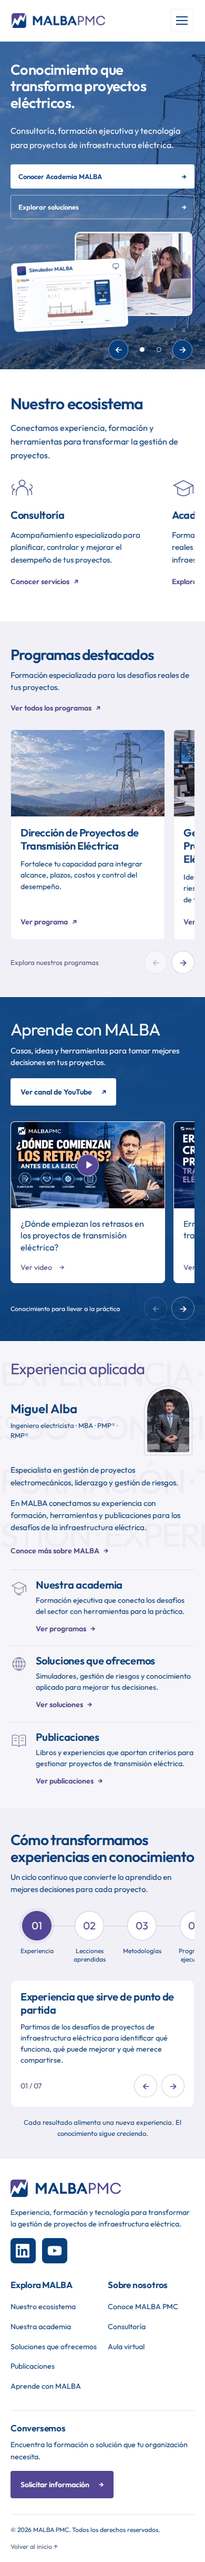
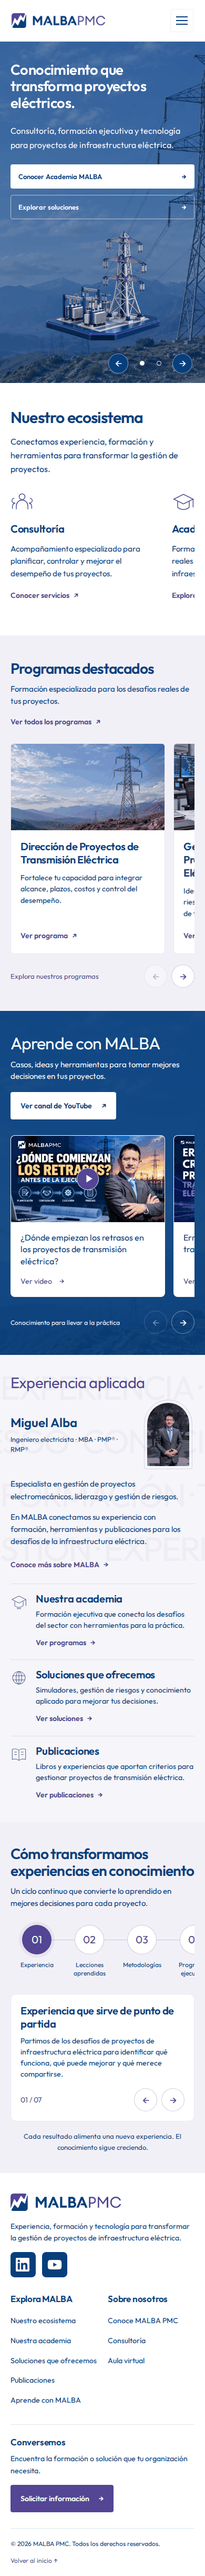
Replace homepage collage with custom 3D electrical infrastructure

Changed region(s): [[0.0, 0.0, 1.0, 0.9688], [0.8615, 0.7188, 0.9538, 0.7812]]

diff --git a/home-sections.css b/home-sections.css
@@ -894,50 +894,37 @@ body:has(#video-dialog[open]) { overflow: hidden; }
   .footer-contact .button { margin-top: 6px; width: fit-content; max-width: 100%; }
   .footer-bottom { font-size: 12px; gap: 14px; flex-direction: column; align-items: flex-start; padding: 20px 0; }
 }
-/* Home hero: professional photography paired with the actual MALBA simulator. */
+/* Home hero: transparent 3D electrical infrastructure in MALBA colors. */
 .hero-with-showcase .hero-copy { display: grid; grid-template-columns: 1.18fr 1fr; align-items: center; gap: 54px; }
 .hero-with-showcase .hero-copy-inner { min-width: 0; position: relative; z-index: 1; }
 .hero-with-showcase #hero-title { font-size: clamp(38px,4.05vw,60px); }
 .hero-with-showcase .hero-actions { gap: 12px; }
 .hero-with-showcase .hero-actions .button { font-size: 14px; padding: 0 19px; gap: 14px; }
-.hero-showcase { position: relative; width: 100%; max-width: 520px; height: 372px; justify-self: end; }
-.hero-showcase::before { content: ""; position: absolute; top: 12px; right: 0; width: 82%; height: 72%; background: var(--purple); border: 1px solid rgba(255,255,255,.22); border-radius: 14px; }
-.hero-showcase-scene { position: absolute; top: 0; right: 18px; width: 90%; aspect-ratio: 1.5; display: block; border: 4px solid rgba(255,255,255,.92); border-radius: 14px; overflow: hidden; box-shadow: 0 16px 35px rgba(7,63,124,.2); }
-.hero-showcase-scene img { display: block; width: 100%; height: 100%; object-fit: cover; object-position: center; }
-.hero-showcase-product { position: absolute; left: 0; bottom: 0; width: 74%; padding: 0 8px 8px; border-radius: 10px; background: var(--white); color: var(--blue); box-shadow: 0 18px 40px rgba(7,63,124,.24); transform: rotate(-3deg); transform-origin: center; animation: malba-showcase-arrive .65s ease both; }
-.hero-showcase-bar { display: flex; align-items: center; gap: 8px; height: 38px; padding: 0 5px; font-size: 12px; font-weight: 600; }
-.hero-showcase-mark { display: grid; place-items: center; width: 21px; height: 21px; border-radius: 4px; color: var(--white); background: var(--purple); }
-.hero-showcase-mark img { display: block; width: 100%; height: 100%; object-fit: contain; }
-.hero-showcase-screen { margin-left: auto; width: 17px; height: 17px; }
-.hero-showcase-product > img { display: block; width: 100%; height: auto; aspect-ratio: 1100/508; border: 1px solid rgba(7,63,124,.1); border-radius: 4px; }
-@keyframes malba-showcase-arrive { from { opacity: 0; transform: translateY(16px) rotate(-3deg); } to { opacity: 1; transform: translateY(0) rotate(-3deg); } }
+.hero-showcase-3d { position: relative; width: 100%; max-width: 560px; height: 430px; justify-self: end; }
+.hero-showcase-3d picture { display: block; width: 100%; height: 100%; }
+.hero-showcase-3d img { display: block; width: 100%; height: 100%; object-fit: contain; filter: drop-shadow(0 18px 18px rgba(7,63,124,.2)); animation: malba-3d-arrive .8s ease both; }
+@keyframes malba-3d-arrive { from { opacity: 0; transform: translateY(14px); } to { opacity: 1; transform: translateY(0); } }
 @media (max-width: 1130px) and (min-width: 761px) {
   .hero-with-showcase .hero-copy { gap: 32px; grid-template-columns: 1.2fr 1fr; }
   .hero-with-showcase #hero-title { font-size: clamp(32px,4.05vw,46px); }
-  .hero-showcase { height: 310px; }
+  .hero-showcase-3d { height: 360px; }
   .hero-with-showcase .hero-actions .button { font-size: 13px; padding: 0 14px; gap: 8px; min-height: 48px; }
 }
 @media (max-width: 900px) and (min-width: 761px) {
-  .hero-showcase { height: 260px; }
+  .hero-showcase-3d { height: 310px; }
   .hero-with-showcase .hero-copy { gap: 24px; }
   .hero-with-showcase .hero-copy p { font-size: 17px; }
 }
 @media (max-width: 760px) {
-  .hero-with-showcase .hero-copy { grid-template-columns: 1fr; gap: 24px; padding-top: 38px; padding-bottom: 76px; }
+  .hero-with-showcase .hero-copy { grid-template-columns: 1fr; gap: 20px; padding-top: 38px; padding-bottom: 76px; }
   .hero-with-showcase #hero-title { font-size: clamp(26px,7vw,48px); }
   .hero-with-showcase .hero-actions { margin-top: 24px; }
   .hero-with-showcase .hero-actions .button { font-size: 13px; padding: 0 14px; gap: 10px; min-height: 46px; }
-  .hero-showcase { height: 185px; max-width: 390px; justify-self: center; }
-  .hero-showcase-scene { width: 64%; right: 4px; aspect-ratio: 1.4; border-width: 3px; border-radius: 10px; }
-  .hero-showcase::before { width: 60%; height: 76%; top: 10px; right: 0; border-radius: 10px; }
-  .hero-showcase-product { width: 62%; max-width: 230px; bottom: 0; left: 4px; border-radius: 8px; padding: 0 6px 6px; }
-  .hero-showcase-bar { height: 29px; font-size: 10px; gap: 6px; }
-  .hero-showcase-mark { width: 17px; height: 17px; }
-  .hero-showcase-screen { width: 14px; height: 14px; }
+  .hero-showcase-3d { height: 215px; max-width: 390px; justify-self: center; }
 }
 @media (max-width: 359px) {
-  .hero-showcase { height: 160px; }
+  .hero-showcase-3d { height: 190px; }
 }
 @media (prefers-reduced-motion: reduce) {
-  .hero-showcase-product { animation: none; }
+  .hero-showcase-3d img { animation: none; }
 }

diff --git a/index.html b/index.html
@@ -189,15 +189,11 @@
                   <a class="button button-outline" href="#soluciones">Explorar soluciones <span aria-hidden="true">→</span></a>
                 </div>
               </div>
-              <div class="hero-showcase" aria-hidden="true">
-                <picture class="hero-showcase-scene">
-                  <source media="(max-width: 760px)" srcset="assets/programs/pmo-480.webp">
-                  <img src="assets/programs/pmo-960.webp" width="960" height="540" alt="" decoding="async">
+              <div class="hero-showcase hero-showcase-3d" aria-hidden="true">
+                <picture>
+                  <source media="(max-width: 760px)" srcset="assets/hero/infraestructura-3d-640.webp">
+                  <img src="assets/hero/infraestructura-3d-1280.webp" width="1280" height="1170" alt="" decoding="async">
                 </picture>
-                <div class="hero-showcase-product">
-                  <div class="hero-showcase-bar"><span class="hero-showcase-mark"><img src="assets/favicon.png" width="21" height="21" alt="" decoding="async"></span><span>Simulador MALBA</span><svg class="hero-showcase-screen" viewBox="0 0 24 24" fill="none" stroke="currentColor" stroke-width="1.5"><rect x="3" y="4" width="18" height="13" rx="2"/><path d="M8 21h8m-4-4v4"/></svg></div>
-                  <img src="assets/academia/simulador.webp" width="1100" height="508" alt="" decoding="async">
-                </div>
               </div>
             </div>
             <div class="hero-visual" aria-hidden="true">

diff --git a/docs/hero-3d-design.md b/docs/hero-3d-design.md
@@ -1,0 +1,9 @@
+# Elemento 3D del banner MALBA
+
+Generado con la herramienta integrada `image_gen` (modo built-in), como recurso original para el banner del home.
+
+Archivos publicados: `assets/hero/infraestructura-3d-1280.webp` (1280 × 1170) y `assets/hero/infraestructura-3d-640.webp` (640 × 585). Ambos conservan transparencia real. El banner selecciona la versión pequeña en celular.
+
+## Prompt utilizado
+
+Use case: stylized-concept. Asset type: premium 3D transparent cutout for the right side of MALBA PMC electrical project management consulting homepage hero. Create a striking, sophisticated architectural scale model: a single tall electrical transmission lattice tower and a compact electrical substation with two transformers and porcelain insulators, on a clean low beveled square plinth viewed in three-quarter isometric perspective. Tower dominates with elegant detailed structural bracing, strong silhouette and realistic engineering proportions. Short clean power lines terminate within the composition, nothing cut off. Luxury architectural visualization, polished precision manufactured surfaces, physically realistic 3D, contemporary professional corporate aesthetic, dramatic yet tasteful studio lighting. Strict palette of deep MALBA blue #003B73 and royal purple #5D4594, white porcelain and subtle pale silver-blue highlights. Tower predominantly bright satin white-silver with blue accents so it reads clearly against dark blue website photography. Base deep blue with purple edge accents. One cohesive model, centered, entire object visible with comfortable transparent margin. Real transparent alpha background, no environment, no rectangular backdrop, no sky, no text, no logo, no people, no charts, no UI panels, no gradients as decorative backgrounds, no neon glow, no cartoon toys, no cables extending out of frame. High detail clean edges and premium photorealistic material rendering.

diff --git a/docs/VALIDATION.md b/docs/VALIDATION.md
@@ -14,3 +14,7 @@ Composición de dos columnas: título y cifras a la izquierda; seis beneficios v
 ### Banner de inicio: fotografía y simulador
 
 Se añadió una composición con fotografía de profesionales y captura real del simulador, reutilizando recursos WebP locales de alta resolución. Mantiene el fondo y la capa azul configurada. Revisado a 1920, 1440, 1131, 1024, 900, 768, 760, 390, 360 y 320 px: título de tres líneas, botones libres de superposiciones y sin desbordamiento de página. La composición se compacta en celular. Comprobados el cambio al banner del libro y su regreso, las diapositivas inactivas fuera del foco, los recursos locales y la preferencia de movimiento reducido. Capturas de home actualizadas.
+
+### Banner con infraestructura 3D
+
+La composición fotográfica fue sustituida por una ilustración 3D original con torre y subestación en colores MALBA. Los WebP de 1280 y 640 px preservan el canal alfa (rango 0–255), y el fondo se integra con la fotografía existente. Comprobados los diez anchos de la revisión anterior (320–1920 px): título de tres líneas, controles y botones sin solapamientos, cambio al libro y regreso, ausencia de desbordamiento de página y errores de recursos locales/JavaScript. La animación de entrada respeta la preferencia de movimiento reducido. Capturas de home actualizadas.
